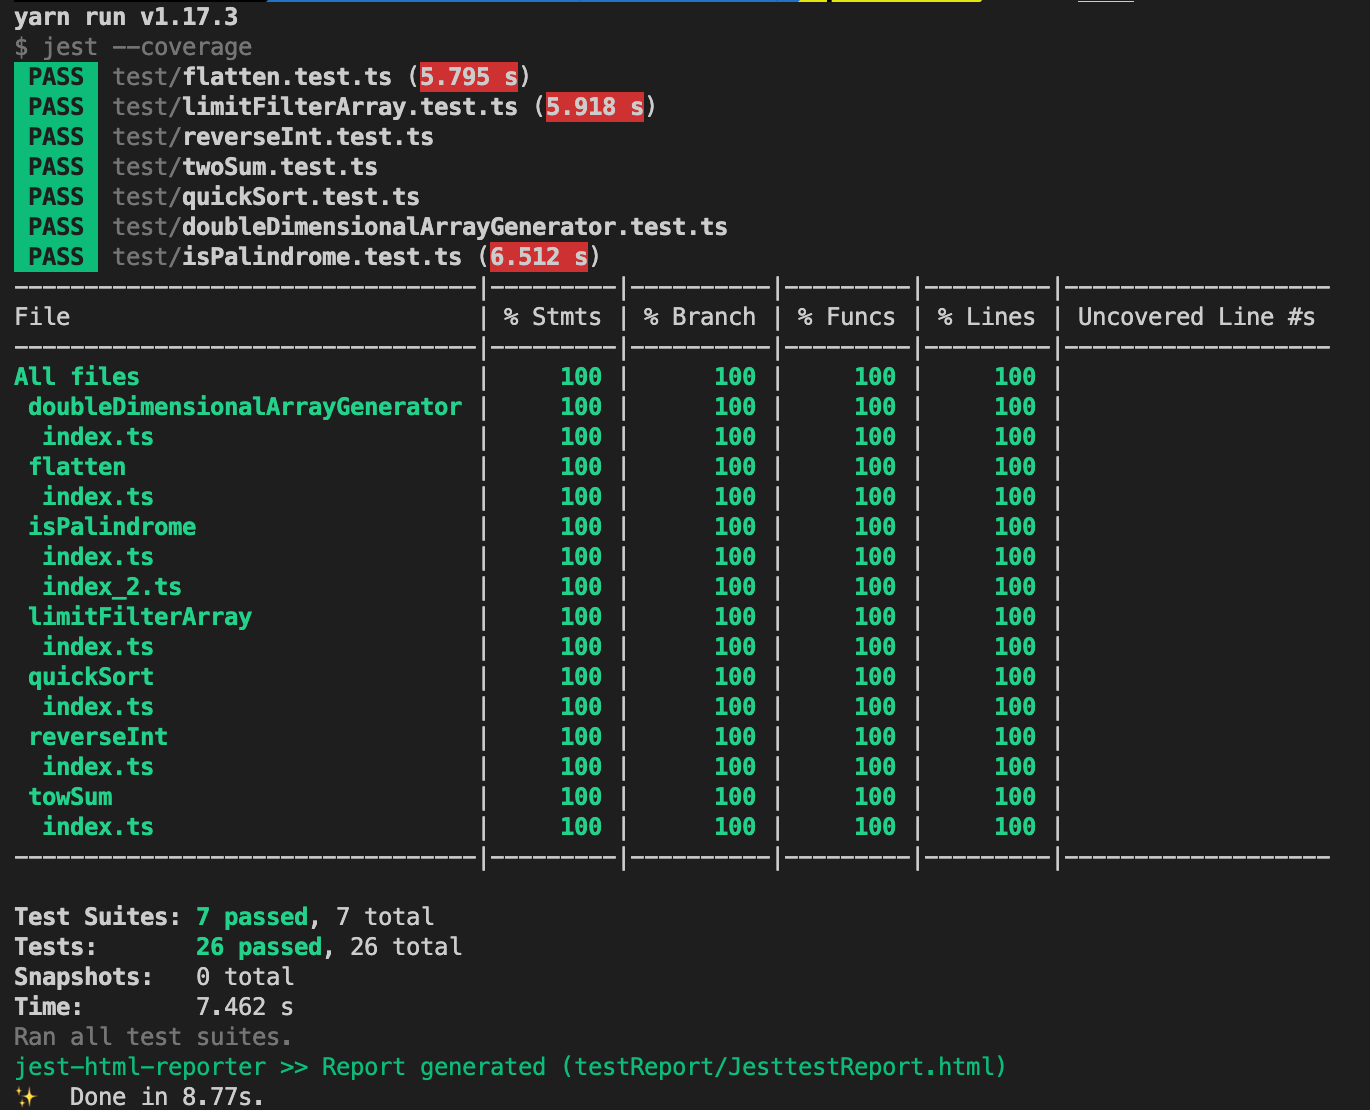
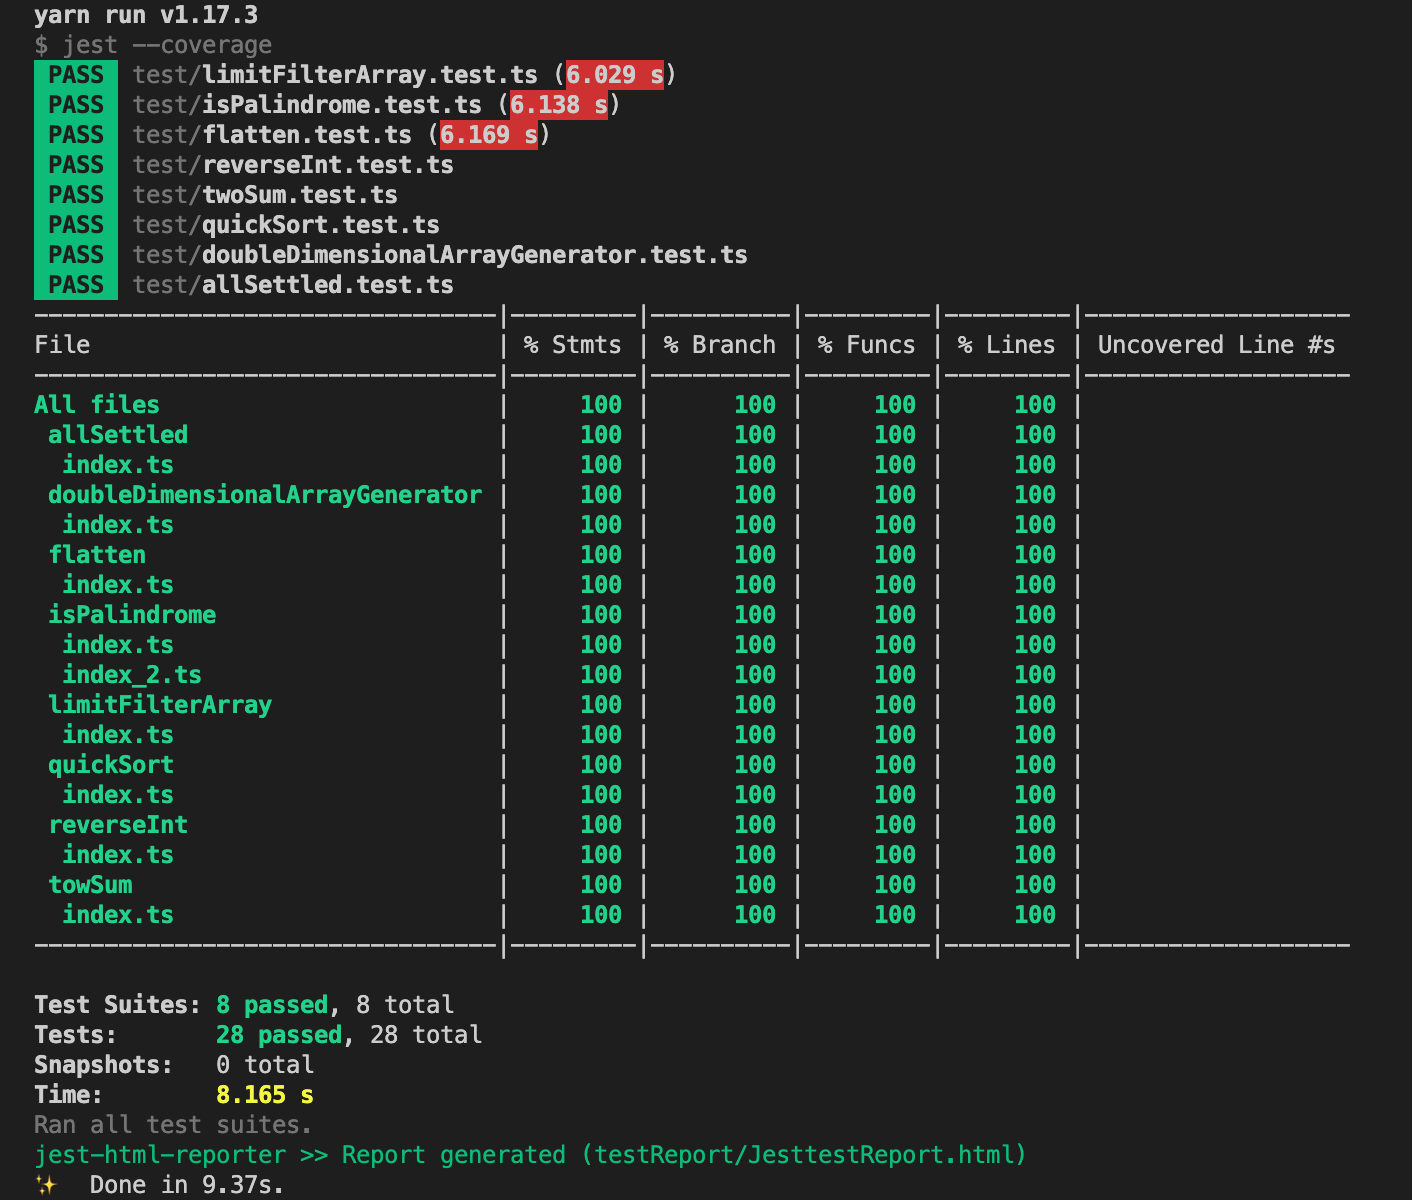
feat: allSettled

Changed region(s): [[0.0, 0.0, 0.9504, 1.0]]

diff --git a/src/allSettled/index.ts b/src/allSettled/index.ts
@@ -1,0 +1,56 @@
+
+/**
+ * author: pace_zhong@foxmail.com
+ * 
+ * 对于ES6 Promise.allSettled 的简单实现
+ *
+ * @param   {Array<Promise>}                    promises  
+ * @return  {Promise<Array><IPromiseResult>}            
+ */
+
+export interface IPromiseResult {
+  status: 'fulfilled' | 'rejected';
+  value?: any;
+  reason?: any;
+}
+export default function allSettled(promises: Array<Promise<unknown>>): Promise<Array<IPromiseResult>> {
+  return new Promise((resolve, reject) => {
+    let doneCount = 0;
+    const count = promises.length; // promise数量
+
+    // 空数组
+    if (count === 0) {
+      resolve([]);
+      return
+    }
+
+    const result:Array<IPromiseResult> = new Array(count - 1); // 返回的结果
+
+    // 设置返回值，并判断全部请求结束后，执行resolve 
+    const setResult = (data: IPromiseResult, index:number) => {
+      result[index] = data;
+      doneCount++;
+      if (doneCount === count) {
+        resolve(result);
+      }
+    }
+
+    for (let i = 0; i < promises.length; i++) {
+      const promise = promises[i];
+      promise.then(
+        (value) => {
+          setResult({
+            status: 'fulfilled',
+            value,
+          }, i)
+        },
+        (reason) => {
+          setResult({
+            status: 'rejected',
+            reason,
+          }, i)
+        }
+      )
+    }
+  })
+}

diff --git a/test/allSettled.test.ts b/test/allSettled.test.ts
@@ -1,0 +1,39 @@
+import allSettled from '../src/allSettled';
+
+interface IResult {
+  value: any,
+  compare: any,
+}
+
+async function getValueAndCompare(promises: Array<Promise<unknown>>): Promise<IResult> {
+  return new Promise( async (resolve,reject) => {
+    const value = await allSettled(promises);
+    const compare = await Promise.allSettled(promises);
+    resolve({
+      value,
+      compare
+    })
+  })
+}
+
+test('一般情况验证', async () => {
+  const case_1 = await getValueAndCompare([
+    new Promise((resolve, reject) => {
+      setTimeout(() => {
+        resolve('success');
+      }, 500)
+    }),
+    new Promise((resolve, reject) => {
+      setTimeout(() => {
+        reject('fail');
+      }, 200)
+    })
+  ]);
+  expect(case_1.value).toStrictEqual(case_1.compare)
+});
+
+
+test('传入空数组', async () => {
+  const case_1 = await getValueAndCompare([]);
+  expect(case_1.value).toStrictEqual(case_1.compare)
+});

diff --git a/src/allSettled/README.md b/src/allSettled/README.md
@@ -1,0 +1,37 @@
+# allSetled
+
+对于ES6 Promise.allSetled 的简单实现。
+
+
+### 示例
+```typescript
+//声明两个promise对象
+const p1 = new Promise((resolve, reject) => {
+    setTimeout(() => {
+        resolve('success');
+    }, 1500)
+});
+
+const p2 = new Promise((resolve, reject) => {
+    setTimeout(() => {
+        reject('fail');
+    }, 1000)
+});
+
+allSettled([p1,p2]).then(result => {
+  console.log(result);
+})
+
+/*
+output: [
+    {
+        "status": "fulfilled",
+        "value": "success"
+    },
+    {
+        "status": "rejected",
+        "reason": "fail"
+    }
+]
+*/
+```

diff --git a/README.md b/README.md
@@ -1,5 +1,5 @@
 # training
-一些前端基础算法练习
+一些前端基础算法 与 语法糖实现 练习
 
 ### 项目依赖安装
 ```
